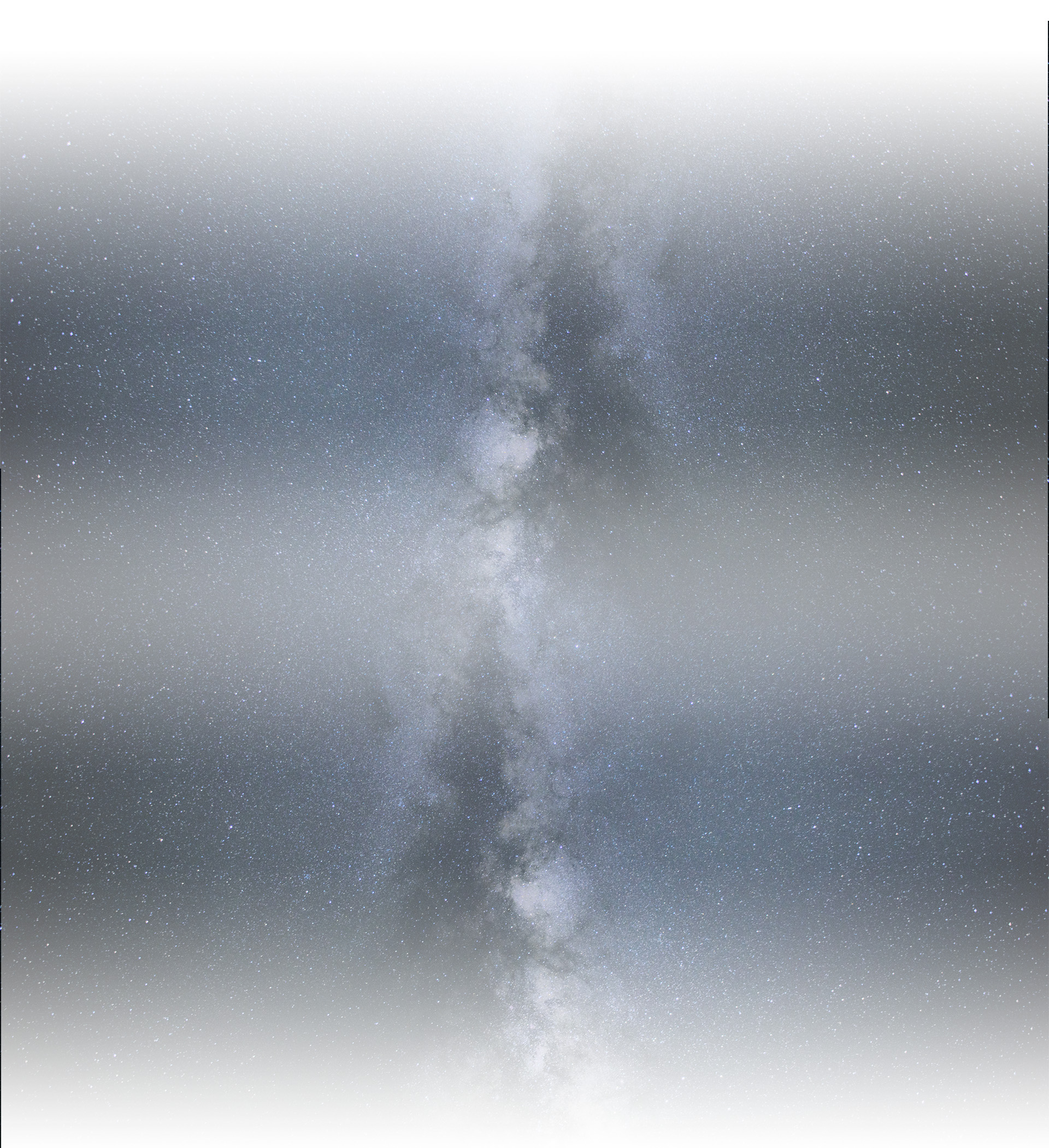
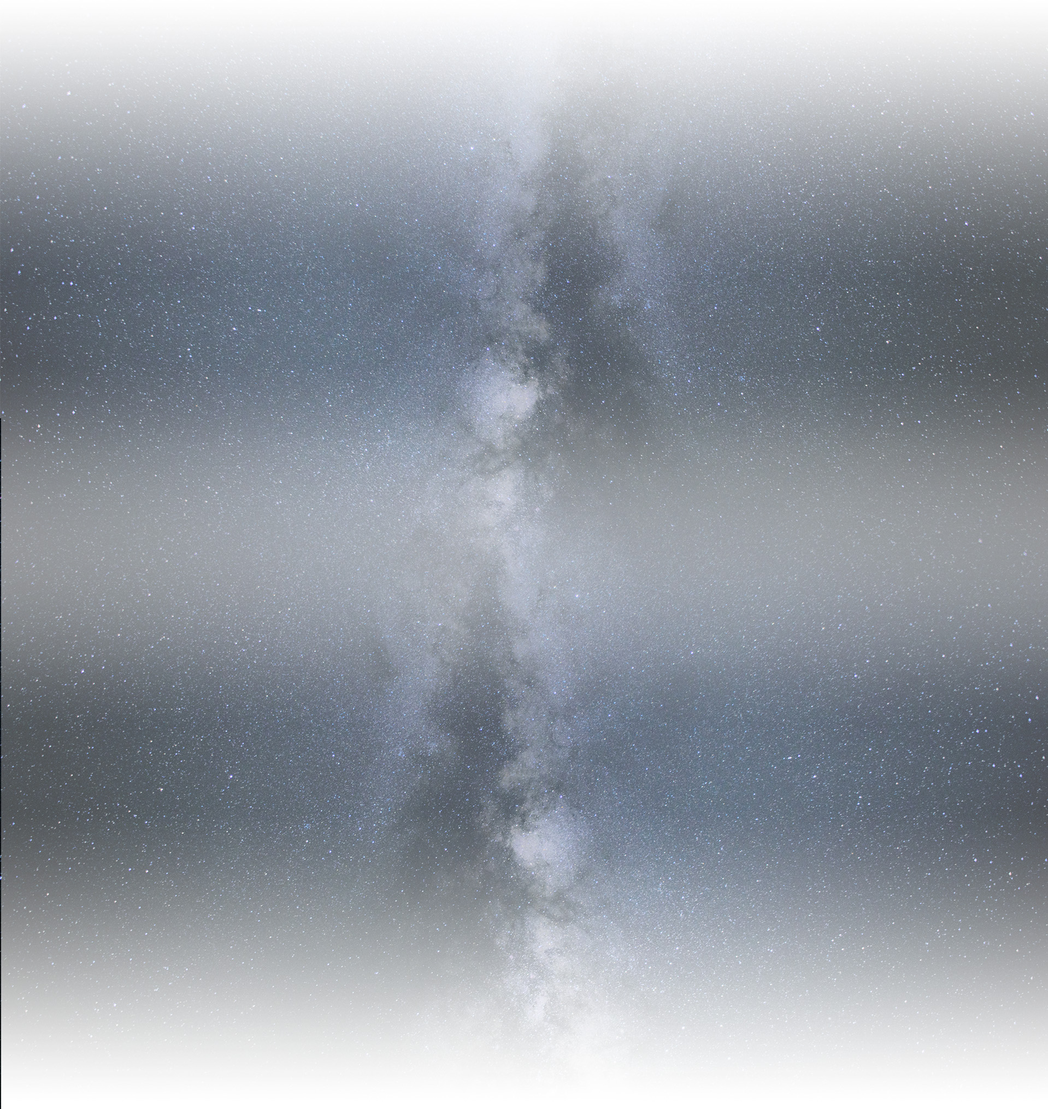
fix position team bg

Changed region(s): [[0.0, 0.031, 1.0, 0.9004], [0.8921, 0.7452, 0.9228, 0.7762], [0.1538, 0.7762, 0.1846, 0.8073]]

diff --git a/css/main.css b/css/main.css
@@ -548,7 +548,7 @@ z-index: 1;
     top: -210px;
     z-index: 2;
     right: 0;
-    height: 3700px;
+    height: 4500px;
     background: url(../img/pattern_dots.png);
 }
 .pattern_boxes1
@@ -661,14 +661,14 @@ cursor: pointer;
 }
 .team_bg_wrapper
 {
-    background: url(../img/star.png) no-repeat 0 0px;
+    background: url(../img/star.png) no-repeat center;
     min-height: 2803px;
     width: 100%;
     position: absolute;
     top: 3320px;
     left: 0;
-    z-index: 1;
-    background-size: cover;
+    z-index: 2;
+    /*background-size: cover;*/
 }
 .small_pattern_1
 {
@@ -1418,9 +1418,9 @@ margin-bottom: 35px;
 }
 .fourth_section_ul
 {
-list-style: none;
 padding: 0;
 margin: 0;
+margin-left: 20px;
 }
 .fourth_section_li
 {
@@ -2912,14 +2912,14 @@ min-height: 410px;
 @media only screen and (max-width : 1200px) {
 .team_bg_wrapper
 {
-background: url(../img/team_bg2.jpg) no-repeat 0 100px;
-min-height: 3130px;
+/*background: url(../img/team_bg2.jpg) no-repeat 0 100px;*/
+min-height: 3430px;
 width: 100%;
 position: absolute;
-top: 1850px;
+top: 2050px;
 left: 0;
-z-index: 1;
-background-size: 1200px;
+z-index: 2;
+background-size: 1600px;
 }
 .pattern_boxes2
 {
@@ -3160,14 +3160,14 @@ top: 250px;
 margin-bottom: 25px;
 }
 .team_bg_wrapper {
-    background: url('../img/team_bg2.jpg') repeat 0 200px;
+    /*background: url('../img/team_bg2.jpg') repeat 0 200px;*/
     min-height: 2350px;
     width: 100%;
     position: absolute;
-    top: 2450px;
+    top: 2650px;
     left: 0;
-    z-index: 1;
-    background-size: contain;
+    z-index: 2;
+    /*background-size: contain;*/
 }
 }
 
@@ -3301,14 +3301,14 @@ line-height: 40px;
 width: 200px;
 }
 .team_bg_wrapper {
-    background: url(../img/team_bg2.jpg) no-repeat 0 200px;
+    /*background: url(../img/team_bg2.jpg) no-repeat 0 200px;*/
     min-height: 2853px;
     width: 100%;
     position: absolute;
-    top: 2450px;
+    top: 2250px;
     left: 0;
-    z-index: 1;
-    background-size: cover;
+    z-index: 2;
+    /*background-size: cover;*/
 }
 .second_section_tabs_wrapper
 {
@@ -3476,17 +3476,20 @@ min-height: auto;
 {
 padding-bottom: 30px;
 }
+.pattern_dots {
+    height: 5500px;
+}
 .team_bg_wrapper
 {
-    background: url(../img/team_bg3.jpg) no-repeat 0 100px;
-    top: 4490px;
-    background-size: 780px;
+    /*background: url(../img/team_bg3.jpg) no-repeat 0 100px;*/
+    top: 4590px;
+    /*background-size: 780px;*/
     min-height: 2215px;
     width: 100%;
     position: absolute;
     left: 0;
-    background-size: contain;
-    z-index: 1;
+    /*background-size: contain;*/
+    z-index: 2;
 }
 .first_section_title_text  {
     font-size: 40px;
@@ -3745,7 +3748,6 @@ display: inline-block;
 text-align: left;
 font-size: 1.6em;
 }
-.platform_li7 .platform_li_text,
 .platform_li8 .platform_li_text
 {
 width: 290px;
@@ -4071,18 +4073,16 @@ padding-bottom: 170px;
 }
 /* Extra Small Devices, Phones */ 
 @media only screen and (max-width : 650px) {
-.team_bg_wrapper
+/*.team_bg_wrapper
 {
-    background: url(../img/team_bg3.jpg) no-repeat 0 100px;
-    top: 3390px;
+    background: url(../img/star_small.png) no-repeat center;
     width: 100%;
     position: absolute;
     left: 0;
-    z-index: 1;
-    top: 4330px;
-    background-size: cover;
-    min-height: 4380px;
-}
+    z-index: 2;
+    top: 4417px;
+    min-height: 3080px;
+}*/
 }
 @media only screen and (max-width : 600px) {
     .closed .roadmap_quarter_text.third_text {
@@ -4122,6 +4122,9 @@ padding-bottom: 170px;
     .closed .roadmap_quarter_text.eith_text {
         max-height: 35px;
     }
+    .team_bg_wrapper {
+        top: 4760px;
+    }
 }
 @media only screen and (max-width : 520px) {
     .closed .roadmap_quarter_text.tenth_text {
@@ -4147,6 +4150,9 @@ padding-bottom: 170px;
 .ninth_section_wrapper
 {
 
+}
+.team_bg_wrapper {
+    top: 4460px;
 }
 .roadmap_quarter_text {
 font-size: 1.4em;
@@ -4343,6 +4349,16 @@ color: #8e92c5;
     .closed .roadmap_quarter_text.tenth_text {
         max-height: 31px;
     }
+.team_bg_wrapper
+{
+    background: url(../img/star_small.png) no-repeat center;
+    width: 100%;
+    position: absolute;
+    left: 0;
+    z-index: 2;
+    top: 4417px;
+    min-height: 3080px;
+}    
 }
 @media only screen and (max-width : 440px) {
     .closed .roadmap_quarter_text.sixth_text {
@@ -4397,7 +4413,10 @@ margin-bottom: 10px;
 }
 
 @media only screen and (max-width : 320px) {
+.team_bg_wrapper {
 
+    top: 4517px;
+}
 }
 
 

diff --git a/index.php b/index.php
@@ -196,12 +196,12 @@ of digital assets'>
 			<div class="fourth_section_text">
 				<div class="fourth_section_text_title">INSIDE A SMART CONTRACT WE RECORD ALL DETAILS OF A DEAL:</div>
 				<ul class="fourth_section_ul">
-					<li class="fourth_section_li">1)  The initial amount of digital assets in an investor’s account (equal to BTC, ETH or USD)</li>
-					<li class="fourth_section_li">2) Target profit for completion of the contract (based on average profitability of a trader.Upon completion, the contract will automatically terminate)</li>
-					<li class="fourth_section_li">3) Duration of the contract (the contract will then automatically calculate the profit and send it to the trader)</li>
-					<li class="fourth_section_li">4) Maximum loss (If a loss reaches the maximum value, the access will automatically close. The contract will then dissolves, refunding trader’s fee to the investor)</li>
-					<li class="fourth_section_li">5) Authorized pairs for trading</li>
-					<li class="fourth_section_li">6) Trader’s fee and his wallet</li>
+					<li class="fourth_section_li">The initial amount of digital assets in an investor’s account (equal to BTC, ETH or USD)</li>
+					<li class="fourth_section_li">Target profit for completion of the contract (based on average profitability of a trader.Upon completion, the contract will automatically terminate)</li>
+					<li class="fourth_section_li">Duration of the contract (the contract will then automatically calculate the profit and send it to the trader)</li>
+					<li class="fourth_section_li">Maximum loss (If a loss reaches the maximum value, the access will automatically close. The contract will then dissolves, refunding trader’s fee to the investor)</li>
+					<li class="fourth_section_li">Authorized pairs for trading</li>
+					<li class="fourth_section_li">Trader’s fee and his wallet</li>
 				</ul>
 			</div>
 			<!-- <div class="sections_arrow_wrapper">
